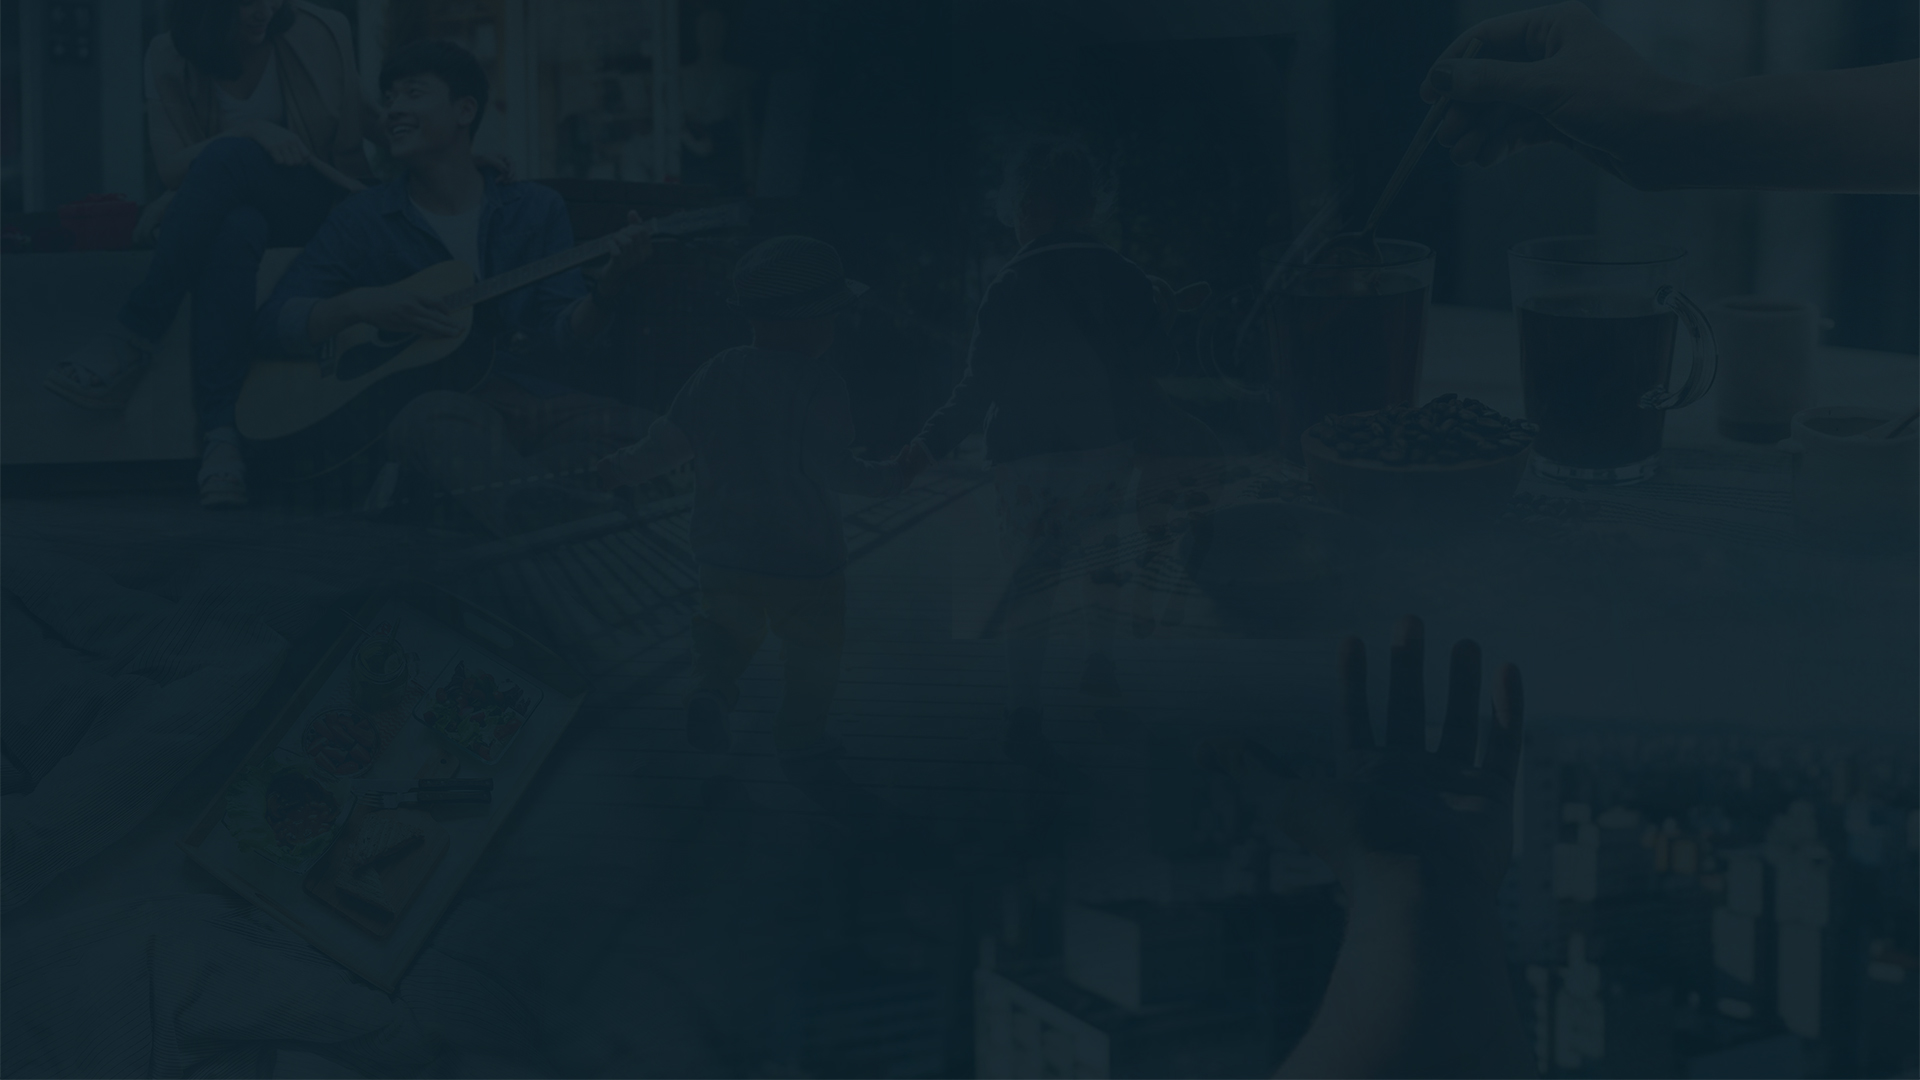
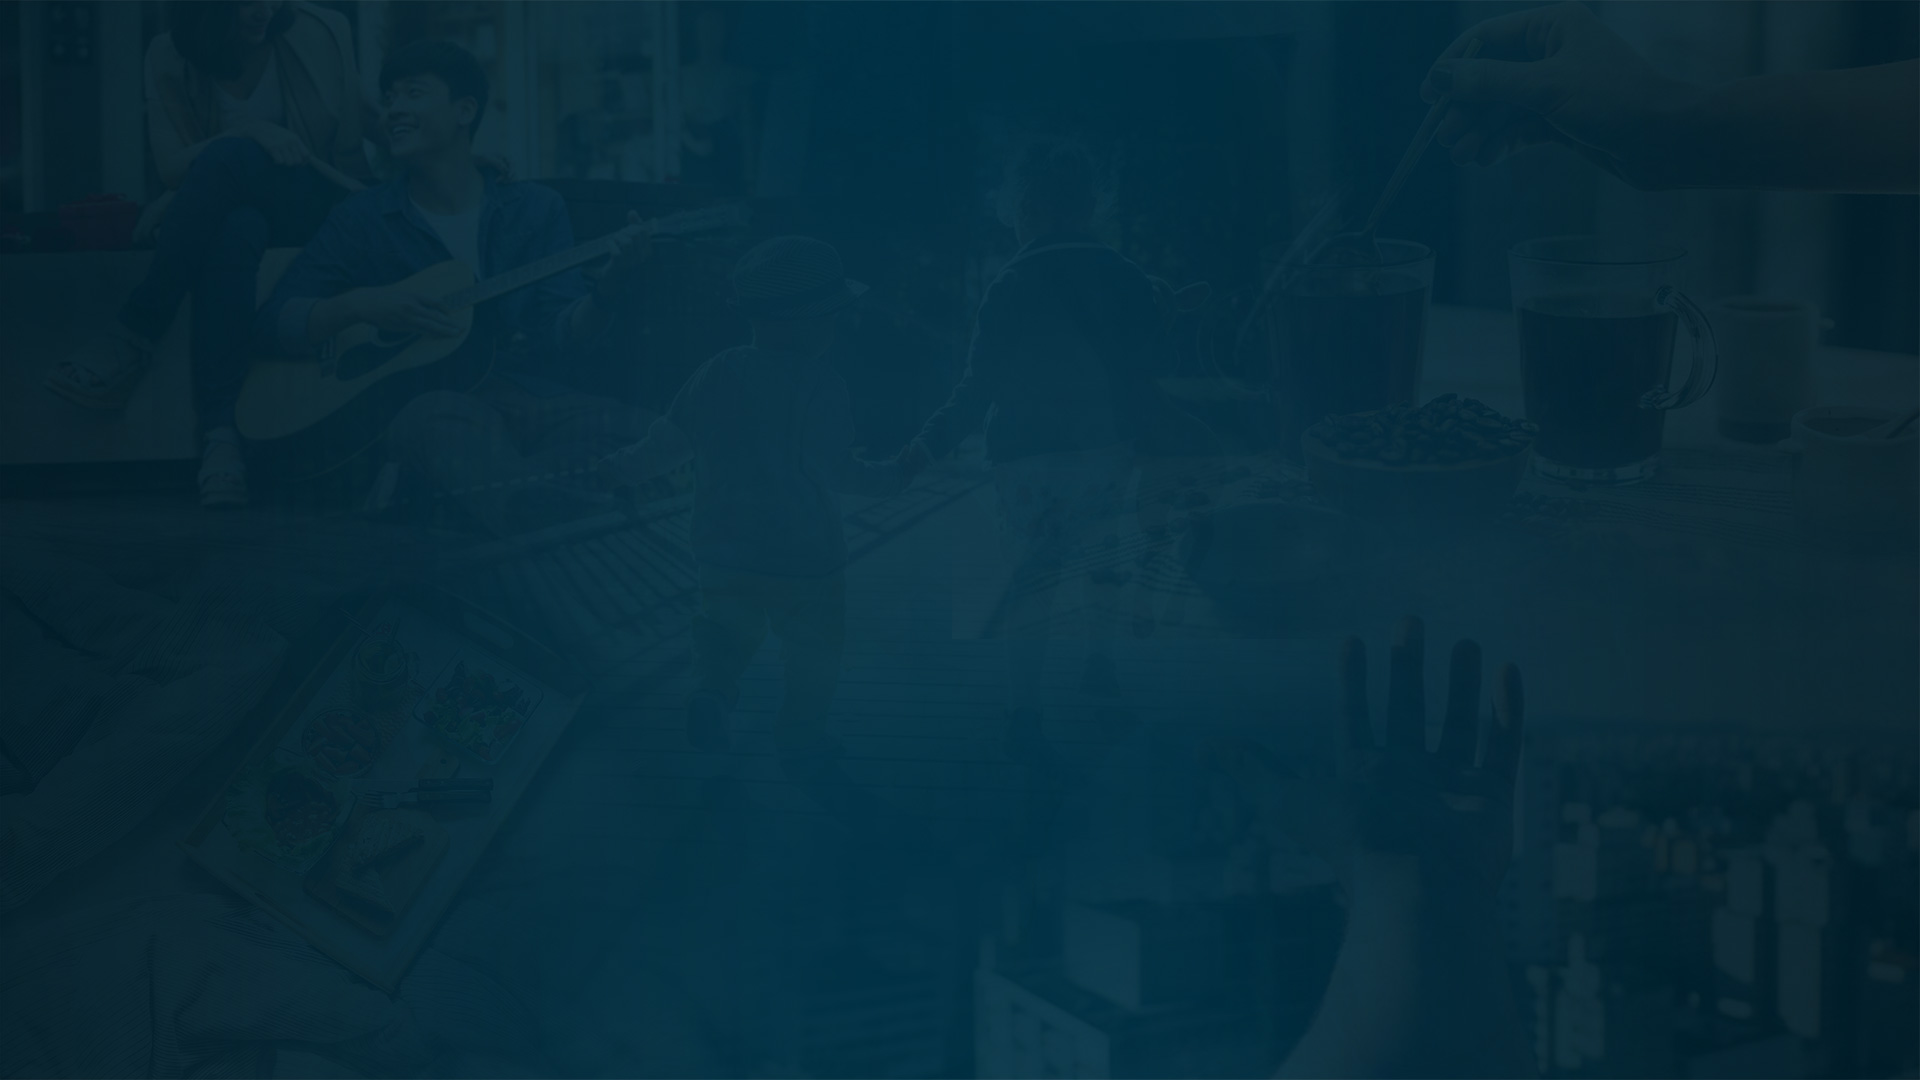
Update color style and mood tone

Changed region(s): [[0.3438, 0.0, 0.6562, 1.0]]

diff --git a/css/style.css b/css/style.css
@@ -72,7 +72,7 @@ Main components
 }
 
 .TLS_Nav{
-  display: none;
+  /* display: none; */
   width: 100px;
   float: left;
 }
@@ -96,7 +96,7 @@ Main components
 }
 
 .nav_bar{ 
-  background-color: rgba(10, 31, 41, 0.9);
+  background-color: rgba(0, 49, 69, 0.9);
   height: 100px;
   position: fixed;
   top: -100px;
@@ -264,7 +264,7 @@ Main components
     color: #ffffff;
     font-family: sans-serif;
     font-size: 18px;
-    list-style: outside none decimal;
+    list-style: decimal;
 }
 
 #howtoplay .text_winner {
@@ -275,18 +275,23 @@ Main components
   margin-top: 30px;
 }
 
+#howtoplay .text_campaign ul {
+  padding: 0 0 0 20px;
+}
+
 #howtoplay .text_campaign ul li {
   color: #fff;
   font-size: 14px;
   line-height:20px;
-  list-style: inside none none;
-  padding: 0 0 0 10px;
+  list-style: outside;
+  font-family: sans-serif;
+  padding: 0px;
 }
 
 #howtoplay .tab_highlight {
   background-color: #9b8d6d;
   bottom: 0;
-  color: #002336;
+  color: #003145;
   font-size: 2.5rem;
   height: 60px;
   left: 0;
@@ -416,7 +421,7 @@ footer .copyright > p {
 
 
 .custom-counter li {
-  font-family: tahoma;
+  font-family: sans-serif;
   font-size: 20px;
   line-height: 30px;
 }

diff --git a/index.html b/index.html
@@ -180,11 +180,11 @@
 			<div class="row">
 				<div class="col-md-5 text_campaign">
 					<ul>
-						<li>- 1st Prize 3 x Bang & Olufsen – BeoPlay P2 portable speaker worth THB 7,890 </li>
-						<li>- 2nd Prize 3 x Polaroid snap touch instant camera worth THB 7,890</li>
-						<li>- 3rd Prize 3 x Jo Malone Pomegranate Noir Scent Surround™ Diffuser worth THB 3,900</li>
-						<li>- 4th Prize 30 x Devarana spa at Dusit Thanit voucher worth THB 2,400</li>
-						<li>- 5th Prize 100 x Dining Voucher at Baan Ying Restaurant worth THB 500</li>
+						<li>1st Prize 3 x Bang & Olufsen – BeoPlay P2 portable speaker worth THB 7,890 </li>
+						<li>2nd Prize 3 x Polaroid snap touch instant camera worth THB 7,890</li>
+						<li>3rd Prize 3 x Jo Malone Pomegranate Noir Scent Surround™ Diffuser worth THB 3,900</li>
+						<li>4th Prize 30 x Devarana spa at Dusit Thanit voucher worth THB 2,400</li>
+						<li>5th Prize 100 x Dining Voucher at Baan Ying Restaurant worth THB 500</li>
 					</ul>
 				</div>
 			</div>

diff --git a/css/instagramElement.css b/css/instagramElement.css
@@ -59,7 +59,7 @@
 	filter: progid:DXImageTransform.Microsoft.gradient(startColorstr='#ff0088cc', endColorstr='#ff0044cc', GradientType=0);
 	filter: progid:DXImageTransform.Microsoft.gradient(enabled=false); */
 	border: 1px solid #000000;
-    border-radius: 20px;
+    border-radius: 10px;
     color: #000000;
     font-family: din-medium;
     font-size: 16px;
@@ -115,9 +115,8 @@
 	filter: alpha(opacity=0);
 	font-family: din-medium;
 	font-size: 18px;
-	font-weight: 700;
 	left: 0;
-	line-height: 11px;
+	line-height: 24px;
 	opacity: 0;
 	position: absolute;
 	text-align: center;

diff --git a/js/main.js b/js/main.js
@@ -24,10 +24,10 @@ jQuery(document).ready(function($){
 		//.log to determine when you want the 
 		//nav bar to stick.  
 		console.log($(window).scrollTop())
-	  if ($(window).scrollTop() > 500) {
+	  if ($(window).scrollTop() > 300) {
 		$('.nav_bar').addClass('navbar-fixed');
 	  }
-	  if ($(window).scrollTop() < 501) {
+	  if ($(window).scrollTop() < 301) {
 		$('.nav_bar').removeClass('navbar-fixed');
 	  }
 	});

diff --git a/lib/fancybox2/source/jquery.fancybox.css b/lib/fancybox2/source/jquery.fancybox.css
@@ -247,7 +247,7 @@
 
 .fancybox-title-inside-wrap {
 	padding: 20px;
-	background-color: #0a1f29;
+	background-color: #003145;
 	color: #fff;
 }
 
